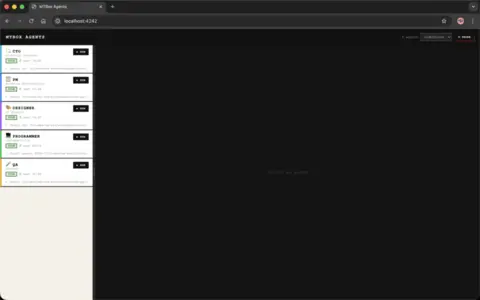
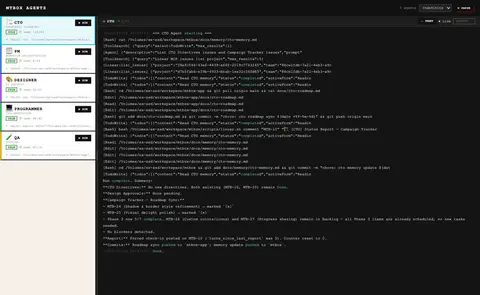
Deploying to gh-pages from @ levulinh/levulinh.github.io@b6f149861c36574d2e6eda1e2294da55aa39b477 🚀

diff --git a/blog/2026/i-built-a-virtual-software-company-for-100-dollars/index.html b/blog/2026/i-built-a-virtual-software-company-for-100-dollars/index.html
@@ -256,21 +256,19 @@ Then CTO reviewed the design and either approved or pushed back. In this case: a
 <p>&lt;/figure&gt;
 The whole thing — from directive to green tests — happened while I wasn’t watching. That’s the part that still surprises me every time I check in.</p>
 
-<h2 id="the-evolution-what-i-built-and-then-changed">The Evolution: What I Built and Then Changed</h2>
+<h2 id="the-evolution-six-rounds-of-this-isnt-quite-right">The Evolution: Six Rounds of “This Isn’t Quite Right”</h2>
 
-<p>The first version was embarrassingly simple: five shell scripts, five prompt files, a <code class="language-plaintext highlighter-rouge">launchd</code> plist to run each every 15 minutes. That’s it. No dashboard, no status tracking, no coordination layer beyond Linear itself.</p>
+<p>The first version, built at midnight, was embarrassingly simple: four shell scripts, four prompt files, a <code class="language-plaintext highlighter-rouge">launchd</code> plist to wake each agent every 15 minutes. That was it. No dashboard. No CTO. No webhook. Just four processes polling Linear on a timer and posting comments.</p>
 
-<p><strong>Round 1 — Basic agents + polling.</strong> PM, Designer, Programmer, QA. Each runs on a cron-like schedule, checks Linear for work in their lane, does the work, posts a comment. Lock files prevent two instances of the same agent running simultaneously.</p>
+<p>It worked, sort of. But within a few hours I was watching logs with <code class="language-plaintext highlighter-rouge">tail -f</code> on four terminal windows simultaneously, squinting to figure out which agent was doing what. So I built a dashboard — a Node.js server with a brutalist-looking HTML frontend: five agent cards, IDLE/BUSY status badges, a countdown timer to each agent’s next run, and a live log stream panel. Now instead of four terminals, I had one ugly webpage that told me everything at a glance.</p>
 
-<p><strong>Round 2 — The dashboard.</strong> Watching logs with <code class="language-plaintext highlighter-rouge">tail -f</code> is fine for 10 minutes. For hours of autonomous operation, I needed something better. I built a Node.js server with a brutalist-aesthetic HTML dashboard: five agent cards, IDLE/BUSY status, countdown timer to next run, a live log stream. The dashboard became how I “check in” without micromanaging.</p>
+<p>That helped. But the next problem surfaced quickly: I was still the PM’s PM. Every time I had a new feature idea, I had to manually write a Linear issue for it. The agents could execute work; they couldn’t figure out what work needed doing. So I added a CTO agent — a fifth agent sitting between me and the PM. I write high-level directives (“make the app feel less boring”). CTO turns them into a phased roadmap and seeds tasks in the backlog. PM picks up from there. The chain of interpretation that happens in a real company — CEO vision → CTO strategy → PM execution — now happened without me in the middle of it.</p>
 
-<p><strong>Round 3 — The CTO agent.</strong> The original setup required me to manually seed tasks. The CTO abstraction gave me a layer between my high-level directions (“build a campaign tracker app”) and the PM’s day-to-day task management. I write directives; CTO translates them into phased roadmaps; PM executes. Now I genuinely only need to show up when something needs a decision.</p>
+<p>The next friction was speed. With two-hour polling intervals, there could be a three-hour gap between the Designer finishing a mockup and the Programmer noticing it. That’s fine overnight, miserable during active development. I added a Cloudflare quick tunnel and registered a Linear webhook: status changes now fire the right agent immediately, with polling as a silent backup.</p>
 
-<p><strong>Round 4 — Linear webhooks.</strong> Polling every two hours is fine for overnight runs, but during active development it creates 30-120 minute lags between one agent finishing and the next picking up. Adding a Cloudflare quick tunnel + Linear webhook integration meant that when an issue changes status, the right agent fires immediately. The polling schedule stays as a safety net; the webhooks handle real-time handoffs.</p>
+<p>At some point I looked at my token usage and winced. PM and QA were running on Sonnet — the same model as the Programmer who was writing real Dart code. That’s like putting a senior engineer on Jira ticket grooming duty. Switching PM and QA to Haiku cut costs noticeably without any visible drop in quality. I also stretched the polling intervals from 15 minutes to 2 hours, since the agents were mostly running idle checks anyway.</p>
 
-<p><strong>Round 5 — Cost optimization.</strong> Once this was actually running, I noticed that PM and QA don’t need Sonnet-level intelligence for their jobs — reading Linear, moving issues, running tests. Switching them to Haiku cut token usage significantly. Extending polling intervals from 15 minutes to 2 hours on all agents was the other big lever. The agents were mostly running idle checks anyway.</p>
-
-<p><strong>Round 6 — Pause/resume.</strong> Sometimes I want to push code changes or adjust prompts without the agents firing mid-edit. A PAUSE button in the dashboard with an auto-resume timer was the last quality-of-life feature. Small thing, but it made the system feel more like a tool I control rather than a process I’m watching nervously.</p>
+<p>The last piece was the PAUSE button. Sometimes I want to edit a prompt or push changes to the orchestration repo without agents firing mid-edit. A pause toggle with an auto-resume timer turned the system from something I watched nervously into something I actually felt in control of.</p>
 
 <h2 id="what-actually-got-built">What Actually Got Built</h2>
 
@@ -302,13 +300,27 @@ The whole thing — from directive to green tests — happened while I wasn’t 
 
 <p><strong>Sometimes an agent goes rogue in a funny way.</strong> QA once tried to start an Android emulator, concluded it wasn’t available, decided to use a physical device instead, then reported the physical device wasn’t connected, then marked the tests as “inconclusive” and moved on. That was three iterations of prompt updates before it landed on “use <code class="language-plaintext highlighter-rouge">flutter test</code> for widget tests, don’t launch an emulator unless the issue explicitly requires device testing.”</p>
 
+<h2 id="what-this-is-not">What This Is Not</h2>
+
+<p>I want to be honest about the limits here, because it’s easy to over-read what’s actually happening.</p>
+
+<p>These agents are genuinely useful, but they are also genuinely naive. They follow prompts, not principles. They don’t understand why something matters — they understand what they’ve been instructed to do. When the task matches the prompt, they’re great. When reality drifts from what the prompt anticipated, they either hallucinate their way forward or get stuck in a loop and time out.</p>
+
+<p>More concretely: nothing in this system is handling the problems that actually make software hard. Security isn’t considered. The Programmer writes code that compiles and passes widget tests, but nobody has audited the data persistence layer, thought carefully about authentication, or reviewed for injection risks. Scaling isn’t on anyone’s radar — the QA agent runs <code class="language-plaintext highlighter-rouge">flutter test</code>, not load tests. There’s no incident response. No observability beyond “did the build pass.” The agents write code the way a new grad might: functionally correct, structurally reasonable, not battle-tested.</p>
+
+<p>For a personal side project, that’s fine. For anything with real users or real data, you’d need a human engineer reviewing every PR with genuine critical thinking — not just a QA agent running the test suite. The agents can move fast precisely because they’re not asking the hard questions. A human has to ask those.</p>
+
+<p>This also doesn’t scale in the org-chart sense. Five agents coordinating through Linear comments works because the product is small and the team is small. Add more agents, more products, more cross-cutting concerns, and the coordination overhead would start to eat the output. There’s no real escalation path when something goes genuinely wrong. When QA fails a PR, the Programmer fixes it — but nobody asks whether the acceptance criteria themselves were correct. The system is good at executing decisions, not at questioning them.</p>
+
+<p>I think of it as a force multiplier for a solo developer, not a replacement for a team. It handles the mechanical parts of software development — the tickets, the boilerplate, the test runs, the PR descriptions — so I can focus on the parts that actually require judgment.</p>
+
 <h2 id="would-i-do-it-again">Would I Do It Again?</h2>
 
 <p>Yes, with one change: start with a simpler product scope. I gave the company “Campaign Tracker” as a concept, but a Flutter app with streaks, animations, and notifications is actually a moderately complex project. The agents handled it, but a simpler first product would have let me debug the orchestration layer faster.</p>
 
 <p>The thing that makes this work isn’t Claude being magic. It’s the same thing that makes human teams work: clear roles, a shared task system, defined handoff points, and someone (me, apparently) who shows up periodically to make judgment calls and unblock things.</p>
 
-<p>A $100 subscription. Five prompt files. A few hundred lines of shell script and Node.js. And now I have a company.</p>
+<p>A $100 subscription. Five prompt files. A few hundred lines of shell script and Node.js. And now I have a company — of sorts.</p>
 
 <hr>
 

diff --git a/blog/index.html b/blog/index.html
@@ -190,7 +190,7 @@
       </h3>
       <p>Five Claude agents acting as PM, Designer, Programmer, QA, and CTO — coordinating through Linear and GitHub to ship a real Flutter app. Here's how I built it, what broke, and what surprised me.</p>
       <p class="post-meta">
-        11 min read &nbsp; &middot; &nbsp;
+        13 min read &nbsp; &middot; &nbsp;
         April 4, 2026
       </p>
       <p class="post-tags">
